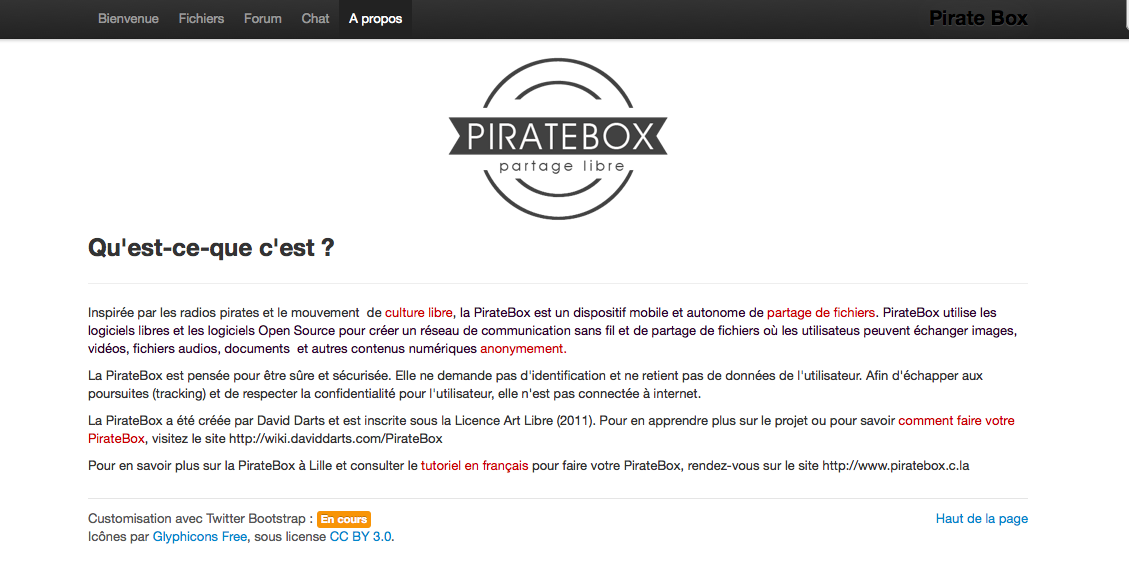
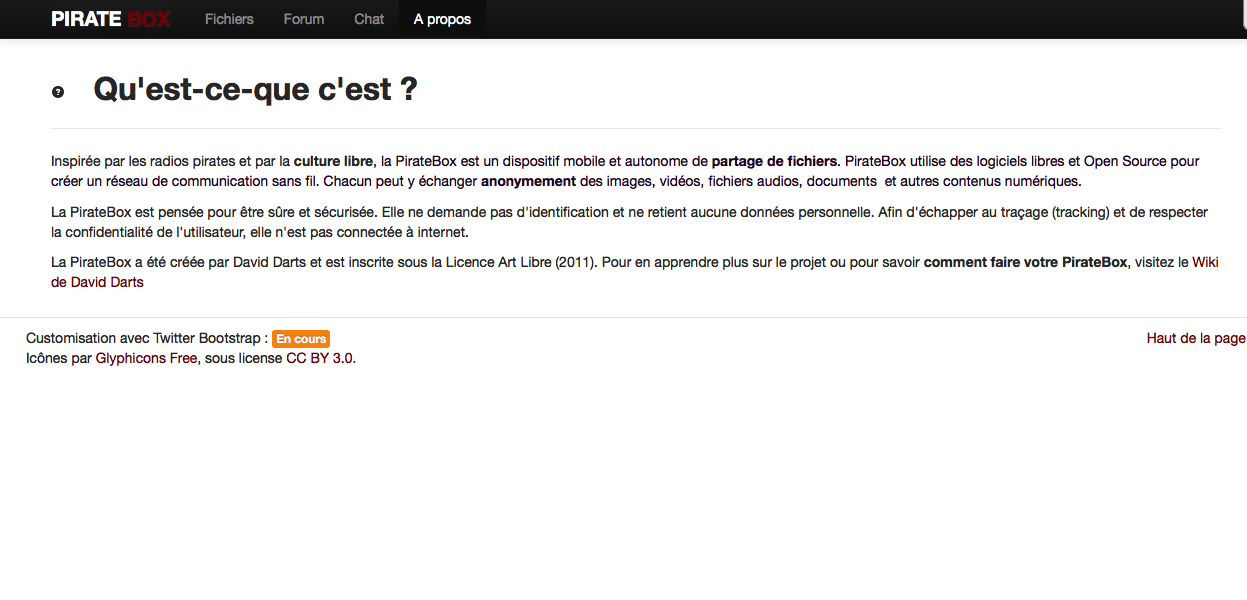
Documentation update
Repushing the original doc
Screenshots update

diff --git a/README.md b/README.md
@@ -1,31 +1,70 @@
--Fork de rlespinasse/my-piratebox
--
--Distribué sans aucune garantie.
--
--Screenshots
--===========
--
--Homepage
----------
--
--![ScreenShot](https://raw.github.com/tontonDuPirox/my-piratebox/master/screens/screen-home.png)
--
--Fichiers
----------
--
--![ScreenShot](https://raw.github.com/tontonDuPirox/my-piratebox/master/screens/screen-shared.png)
--
--Forum
-------
--
--![ScreenShot](https://raw.github.com/tontonDuPirox/my-piratebox/master/screens/screen-forum.png)
--
--Chat
+My-piratebox
+============
+
+Encore une réécriture de la partie web de la piratebox avec Twitter Bootstrap.
+
+Fork de rlespinasse/my-piratebox
+
+Distribué sans aucune garantie.
+
+Screenshots
+===========
+
+Homepage
+--------
+
+![ScreenShot](https://raw.github.com/tontonDuPirox/my-piratebox/master/screens/screen-home.png)
+
+Fichiers
+--------
+
+![ScreenShot](https://raw.github.com/tontonDuPirox/my-piratebox/master/screens/screen-shared.png)
+
+Forum
 -----
--
--![ScreenShot](https://raw.github.com/tontonDuPirox/my-piratebox/master/screens/screen-chat.png)
--
--A propos
----------
--
--![ScreenShot](https://raw.github.com/tontonDuPirox/my-piratebox/master/screens/screen-about.png) 
+
+![ScreenShot](https://raw.github.com/tontonDuPirox/my-piratebox/master/screens/screen-forum.png)
+
+Chat
+----
+
+![ScreenShot](https://raw.github.com/tontonDuPirox/my-piratebox/master/screens/screen-chat.png)
+
+A propos
+--------
+
+![ScreenShot](https://raw.github.com/tontonDuPirox/my-piratebox/master/screens/screen-about.png)
+
+Responsive
+----------
+
+![ScreenShot](https://raw.github.com/tontonDuPirox/my-piratebox/master/screens/screen-responsive1.png)
+![ScreenShot](https://raw.github.com/tontonDuPirox/my-piratebox/master/screens/screen-responsive2.png)
+
+
+Installation
+============
+
+1) Installer la piratebox
+
+    Suivre le tutoriel de David Darts : 
+    http://daviddarts.com/piratebox-diy-openwrt/?title=PirateBox_DIY_OpenWrt
+
+2) Télécharger l'archive et la décompresser
+
+    wget https://github.com/tontonDuPirox/my-piratebox/archive/master.zip && unzip master.zip
+
+3) Se connecter au réseau wifi de la piratebox
+
+4) Copier les fichiers vers la piratebox
+
+    scp -r ./my-piratebox-master/opt/piratebox/* root@192.168.1.1:/opt/piratebox/
+
+5) Se connecter en ssh à la piratebox
+
+    ssh root@192.168.1.1
+
+6) Redémarrer le service piratebox
+
+    /etc/init.d/piratebox stop
+    /etc/init.d/piratebox start
